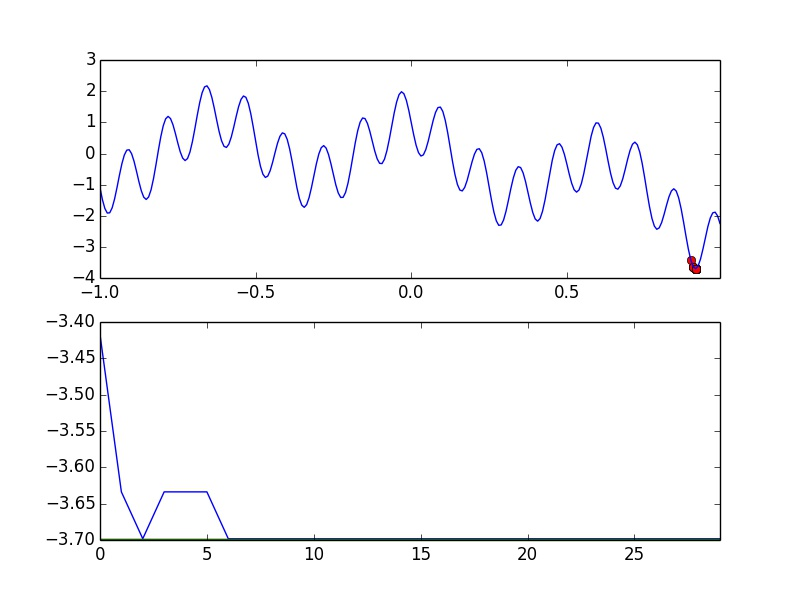
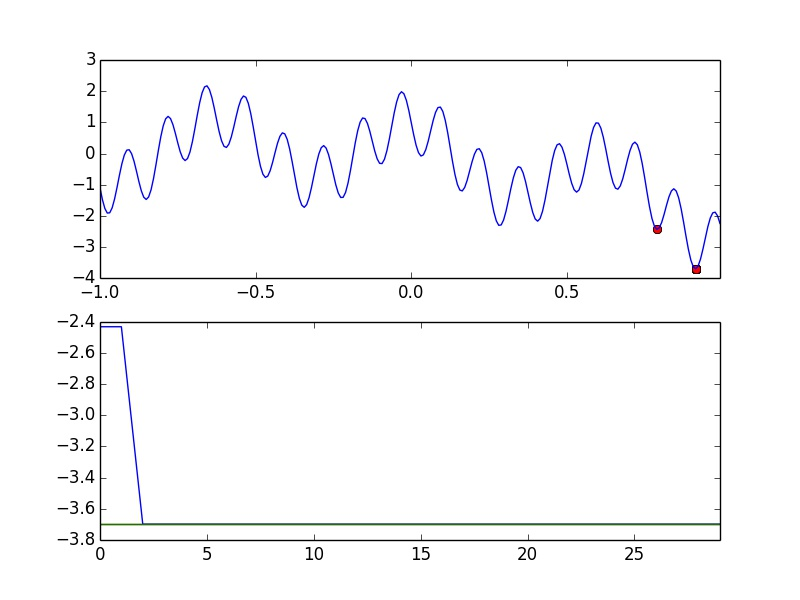
krzyzowanie dwupunktowe

diff --git a/static/js/main.js b/static/js/main.js
@@ -4,6 +4,8 @@ function onReady() {
         this.form.submit();
     });
 
-
+    $('#cross_method').change(function() {
+        this.form.submit();
+    });
 }
 $(document).ready(onReady);

diff --git a/genetic/crossing.py b/genetic/crossing.py
@@ -4,15 +4,25 @@ def average(couple, pop_size):
     man, woman = couple
     return {'x': (man['x'] + woman['x'])/2}
 
+def _mask_couple(man, woman, mmask, wmask):
+    return {'x': (mmask & man['x']) | (wmask & woman['x'])}
+
 def one_point(couple, pop_size):
     man, woman = couple
     g_point = random.randrange(pop_size)
     wmask = 2**g_point-1
     mmask = 2**pop_size-1-wmask
 
-    return {'x': (mmask & man['x']) | (wmask & woman['x'])}
+    return _mask_couple(man, woman, mmask, wmask)
 
 def two_point(couple, pop_size):
-    return couple
+    man, woman = couple
+    gp1 = random.randrange(1, pop_size)
+    gp2 = random.randrange(gp1)
+
+    wmask = 2**gp1-2**gp2
+    mmask = 2**pop_size-1-wmask
+
+    return _mask_couple(man, woman, mmask, wmask)
 
 table = [average, one_point, two_point]
